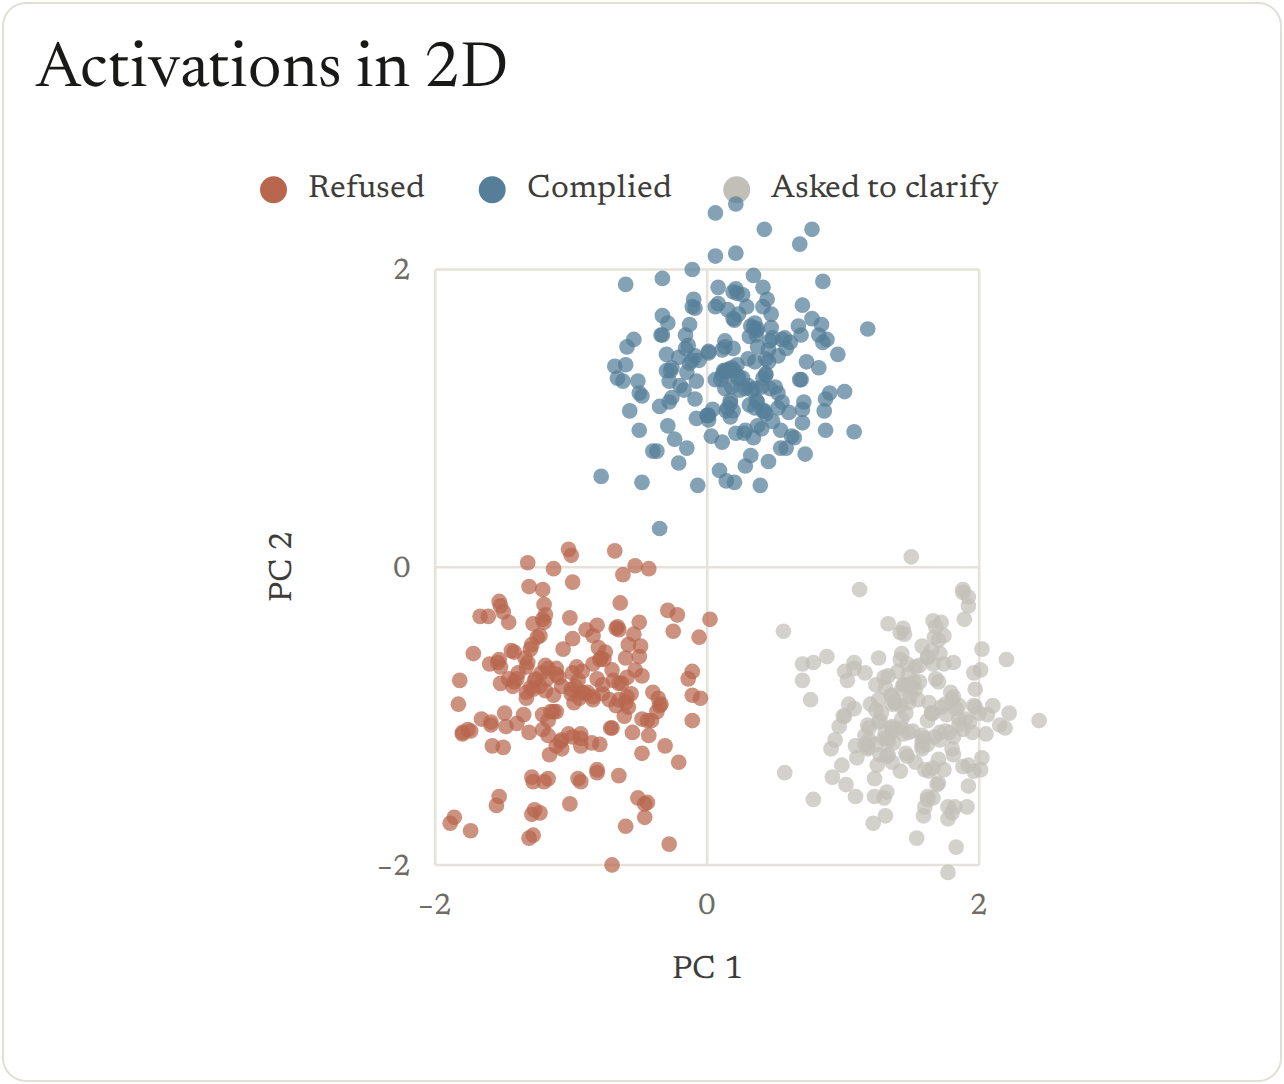
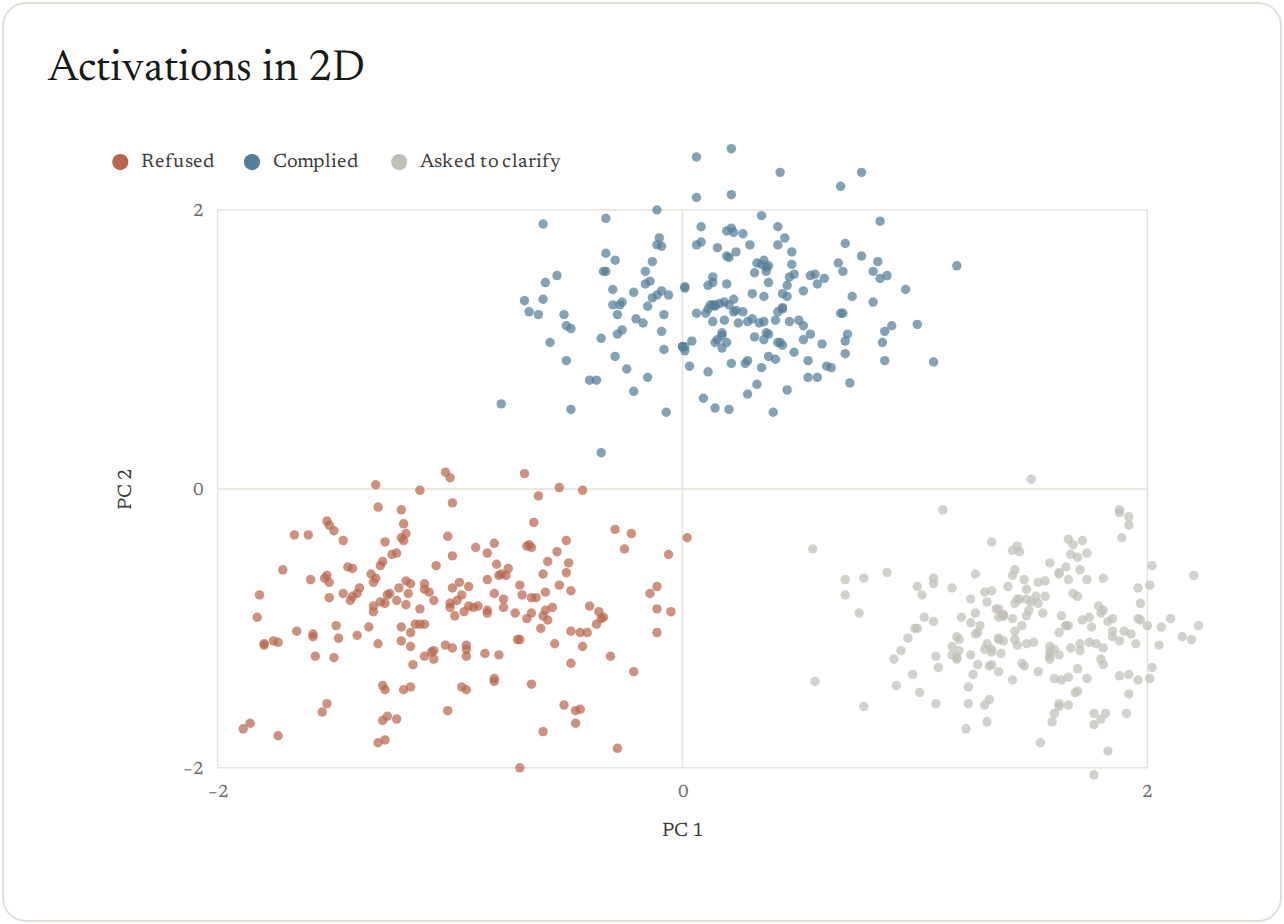
Revert the column-figure gallery cards
Back to two cards per row with charts laid out at 720 px.

diff --git a/src/viz/gallery.py b/src/viz/gallery.py
@@ -82,28 +82,22 @@ def figures() -> dict[str, viz.Figure]:
     return {STEM[name]: figure(name) for name in ORDER}
 
 
-CARD_W, CARD_H, CARD_PAD, CARD_NAME = 640, 540, 14, 32  # a gallery card in CSS px, two to a row; its PNG is twice that
+CARD_W, CARD_H, CARD_PAD = 640, 460, 20  # a gallery card in CSS px, two to a row; its PNG is twice that
+CARD_CHART_W = 720  # the width a card lays its chart out at: room for ten groups of bars, then scaled by about 0.83
 
 
 def card(name: str, fig: viz.Figure | None = None) -> str:
-    """A template's gallery card as HTML: its short name over its chart, without the title. The chart is drawn as a
-    column figure (360 px of layout, text at its usual size) and scaled up to fill the card, so the text reads large;
-    a figure that a column makes tall, such as a transcript, takes the paper width when that loses little size."""
-    fig = dataclasses.replace(fig or figure(name), title=None, subtitle=None, width=None)
-    room_w, room_h = CARD_W - 2 * CARD_PAD - 2, CARD_H - 2 * CARD_PAD - 2 - CARD_NAME * 1.2 - 6
-    best = None
-    for size in ("column", "paper"):
-        svg = dataclasses.replace(fig, size=size).svg(background=False)
-        w, h = (float(v) for v in re.search(r'viewBox="0 0 ([\d.]+) ([\d.]+)"', svg).groups())
-        scale = min(room_w / w, room_h / h)
-        if best is None or scale >= best[0] * 0.85:  # the paper width when it keeps 85% of the column's size: a
-            best = (scale, svg, w, h)                   # wider layout reads better than a cramped, tall one
-    scale, svg, w, h = best
+    """A template's gallery card as HTML: its short name over its chart, without the title. The chart is laid out at
+    CARD_CHART_W and scaled to fit, so a busy chart keeps room and its text stays readable."""
+    fig = dataclasses.replace(fig or figure(name), title=None, subtitle=None, width=CARD_CHART_W)
+    svg = fig.svg(background=False)
+    w, h = (float(v) for v in re.search(r'viewBox="0 0 ([\d.]+) ([\d.]+)"', svg).groups())
+    scale = min(1.0, (CARD_W - 2 * CARD_PAD) / w, (CARD_H - 2 * CARD_PAD - 40) / h)  # 40: the name above
     svg = re.sub(r'width="[\d.]+" height="[\d.]+"', f'width="{w * scale:.1f}" height="{h * scale:.1f}"', svg, count=1)
     return (f'<div style="display:inline-block;padding:1px"><div style="box-sizing:border-box;width:{CARD_W}px;'
             f'height:{CARD_H}px;padding:{CARD_PAD}px;border:1px solid {th.RULE};border-radius:12px;'
-            f'background:{th.BG};display:flex;flex-direction:column"><div style="font:400 {CARD_NAME}px/1.2 '
-            f'{th.FAMILIES["serif"]};color:{th.INK};margin:0 0 6px 2px">{S.esc(about(name))}</div>'
+            f'background:{th.BG};display:flex;flex-direction:column"><div style="font:400 22px/1.2 '
+            f'{th.FAMILIES["serif"]};color:{th.INK};margin:0 0 12px 2px">{S.esc(about(name))}</div>'
             f'<div style="flex:1;display:flex;align-items:center;justify-content:center">{svg}</div></div></div>')
 
 
